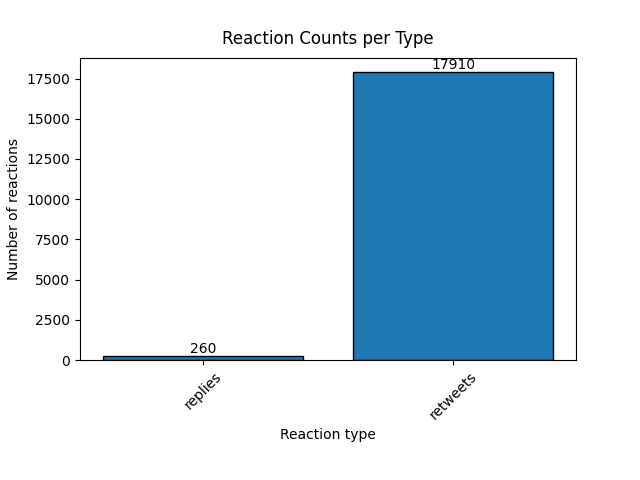
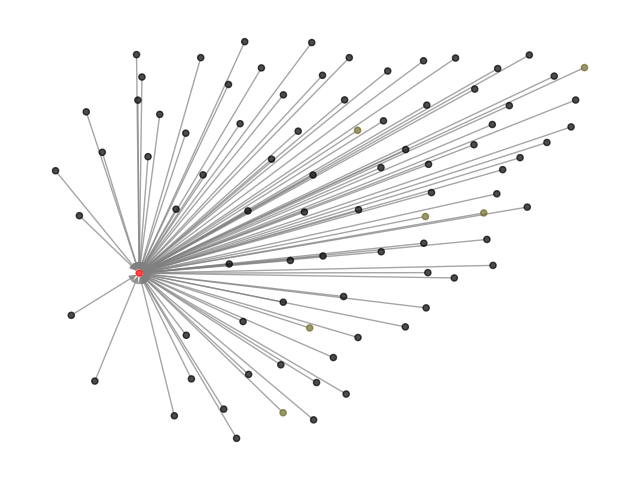
added legend to NetworkX graphs

diff --git a/backend-python/flask-app/python/networkx/longitudinal_subnetworks.py b/backend-python/flask-app/python/networkx/longitudinal_subnetworks.py
@@ -9,6 +9,7 @@ import matplotlib
 # Set the Matplotlib backend to 'Agg' to avoid Qt platform plugin error
 # I don't need to interact with the graphs within WSL2, they should be saved to file.
 matplotlib.use('Agg')
+import matplotlib.patches as mpatches
 
 
 
@@ -181,6 +182,18 @@ def plot_network(reaction_interval, reaction_types, reactions_labels, central_no
                                 if is_author_with_multiple_reactions(node, df_authors_with_multiple_reactions) else 'black')
         # print('Added all colors.')
 
+
+        # Create legend patches for each category
+        legend_patches = [
+            mpatches.Patch(color='red', label='Original/Source Tweet'),
+            mpatches.Patch(color='black', label='Reactions whose authors posted a single reaction to the Source Tweet'),
+        ]
+
+        for count, color in color_dict.items():
+            legend_patches.append(mpatches.Patch(color=color, label=f'Reactions whose authors posted {count} reactions to the Source Tweet'))
+
+
+
         # Set the node size to 20
         node_size = 20
         # Set the edge color to grey and the opacity to 0.7
@@ -194,6 +207,18 @@ def plot_network(reaction_interval, reaction_types, reactions_labels, central_no
         # Draw the graph
         nx.draw(G, pos=pos, with_labels=False, node_size=node_size, node_color=node_colors, edge_color=edge_color, alpha=edge_alpha)
 
+
+        # Create the legend
+        legend = plt.legend(handles=legend_patches, title='Node Categories', fontsize='small')
+
+        # Get the current figure and axes
+        fig = plt.gcf()
+        ax = plt.gca()
+
+        # Add the legend to the right of the figure
+        fig.subplots_adjust(right=0.7)  # Adjust this value as needed
+        fig.legend(legend.get_patches(), [patch.get_label() for patch in legend.get_patches()], loc='center left', bbox_to_anchor=(1, 0.5))
+        
         # print('Finished drawing. Now saving to file...')
         path = os.path.join(folder_path, f'network_graph.png')
         plt.savefig(path)
